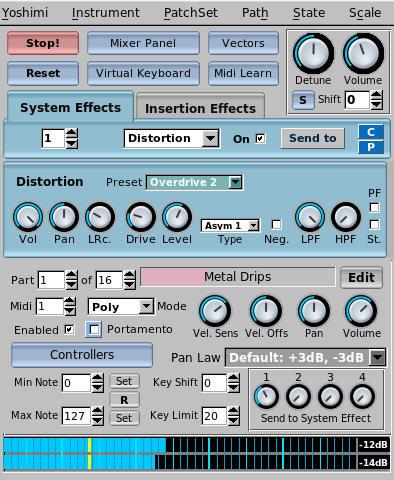
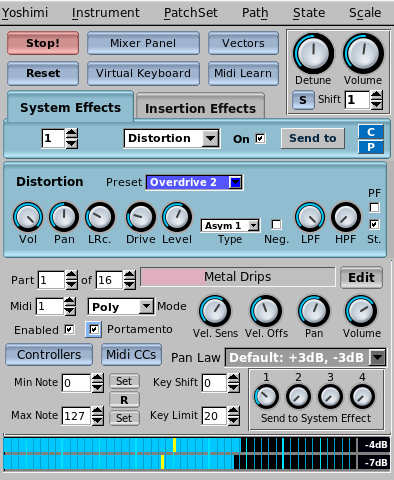
Deploy generated site
Based on source repo commit:
3cb5497ccb44a112591428939be293af15839389

diff --git a/docs/user-guide/bank/bank.html b/docs/user-guide/bank/bank.html
@@ -13,11 +13,11 @@
     <p>
     Pre-designed instrument patches are immediately available in <em>banks</em>. These in turn are contained within a bank <em>root</em>. These bank roots are themselves contained in a root <em>path</em>. The entire structure bearing a direct relationship to MIDI Program Change, Bank LSB and Bank MSB controllers. For normal work that gives up to 128 Instruments in 128 banks in 128 Roots. Yoshimi actually has an extra 32 Instruments in each bank which are only accessible to MIDI using a custom extended program change control.
     <br><br>
-    Note that Yoshimi uses MIDI numbers, starting from 1 for program (instrument) changes, and 0 for banks and roots.
+    Note that Yoshimi uses the standard MIDI numbers, starting from 1 for program (instrument) changes, and 0 for banks and roots.
     <br><br>
     As well as instrument files themselves, a bank will have a hidden ID file <em>.bankdir</em>. This serves two purposes. It speeds up bank searches. If this is present there is no need to positively identify at least one instrument. It also contains the version number from the last time it was updated.
     <br><br>
-    We advise against making any changes to the bank structure through any external means (such as a desktop filer) as this is likely to invalidate Yoshimi's records and cause it to perform a complete bank reset. This would almost certainly change all the MIDI numbers, breaking any previous projects.
+    We advise against making any changes to the bank structure through any external means (such as a desktop filer) as it is possible to invalidate Yoshimi's records and cause it to perform a complete bank reset. This in turn could change all the MIDI numbers, breaking any previous projects.
     </p>
     <img src="images/instruments.png" alt="An instrument bank" class="image">
     <a id="bank"></a>
@@ -28,12 +28,12 @@
     The menu is quick to use when changing banks, but doesn't give you the flexibility of using the buttons for bank roots and root paths. In particular, a right hand mouse click on these buttons will close this window while opening the wanted one, and a right-click on the <b>Close</b> button (bottom right) will return you to where you came from.
     </p>
     <p>
-    Below this is a table of all the instruments in the current bank, with coloured backgrounds indicating what engine types are being used. In order, these are AddSynth, SubSynth, PadSynth. Clicking on one of these will load the instrument into the currently selected part, and highlight it in the bank, so you can easily see where it came from. If selected with a right-click it will also close the window.
+    Below this is a table of all the instruments in the current bank, with coloured backgrounds indicating what engine types are being used. In order, these are AddSynth, SubSynth, PadSynth <em>(a reminder is shown at the bottom of the window)</em>. Clicking on one of these will load the instrument into the currently selected part, and highlight it in the bank, so you can easily see where it came from. If selected with a right-click it will also close the window.
     </p>
     <p>
-    The buttons on the bottom row determine what action is the be performed when clicking on an instrument. The square 'LEDs' show which is the currently active one, and by default it will be <b>Select</b>.
+    The buttons on the bottom row determine what action is to be performed when clicking on an instrument. The square 'LEDs' show which is the currently active one, and by default it will be <b>Select</b>.
     <br><br>
-    For these buttons, you make your choice <em>before clicking</em> on an entry, and regardless of whether the action is successful or not, it will always return to 'Select' Also, the next four buttons will only work where you have filesystem write permission, as they all make actual file changes.
+    With these buttons, you set the operation you want to perform <em>before</em> clicking on an entry, and regardless of whether the action is successful or not, it will always return to 'Select' Also, the next four buttons will only work where you have filesystem write permission, as they all make actual file changes.
     <br><br>
     <b>Rename</b> When chosen, clicking on an instrument entry a small editable window will be opened with the existing name. Changing this will change the name here and the actual filename. It will <em>not</em> change the current part.
     <br><br>
@@ -52,7 +52,7 @@
     <br><br>
     The table of banks also behaves in a similar way to the Instruments one.
     <br><br>
-    The first four buttons int the bottom row also operate in the same way. However, when deleting you will be warned that you will also be completely removing the instrument files, and exactly how many there are.
+    The first four buttons on the bottom row also operate in the same way. However, when deleting you will be warned that you will also be completely removing the instrument files, and exactly how many there are.
     <br><br>
     We suggest you avoid Bank 0, as this is the one that many sequencers automatically send from time to time. Yoshimi reports attempts to access non-existent banks, but otherwise does nothing.
     <br><br>

diff --git a/docs/user-guide/main.html b/docs/user-guide/main.html
@@ -29,7 +29,7 @@
     <br><br>
     <b>Reports</b> opens a window showing all the latest commands and/or error messages. This is only available if the messages are directed here within <em>settings</em> and not to the terminal output. Fatal error messages will always go to the terminal.
     <br><br>
-    <b>View Manual</b> Opens this manual in your default browser. If for some reason the manual is missing, it will try to find an older one, which will then probably be opened in a PDF viewer.
+    <b>View Manual</b> Opens this manual in your default browser. If for some reason the manual is missing, it will try to find an older one, which will then probably be opened in a PDF viewer. However, if you don't have a browser at all (or it doesn't identify itself to the computer) Yoshimi will just pop up a window reporting the fact.
     </p>
     <img src="images/boundry.png" alt="divider" class="wideline">
     <p>
@@ -43,7 +43,7 @@
     <br><br>
     <b>Recent Instruments</b> Yoshimi keeps a list of up to 25 recently seen external instruments, and this opens a window you can select them from. The one you selected will then be placed at the top of the list.
     <br><br>
-    <b>Clear</b> Returns the current part to the basic 'Simple Sound', clearing any effects directly associated with this part.
+    <b>Clear</b> Returns the current part to the basic 'Simple Sound', clearing any effects directly associated with this part. It <em>doesn't</em> clear any of the part level settings such as MIDI channel, key range etc.
     <br><br>
     <b>Search</b> Opens the instrument <a href="bank/search.html">Search</a> window for loading an instrument by its type classification from any bank at all.
     </p>
@@ -115,9 +115,9 @@
     <br><br>
     <b>Detune</b> provides a very fine detune of the entire synth so you can match the pitch to any other synth or sound source you might be using.
     <br><br>
-    <b>Volume</b> is the master volume control for the main audio output pair. It doesn't affect any individual part outputs you might have set (if using Jack audio).
+    <b>Volume</b> is the master volume control for the main audio output pair. It doesn't affect any individual part outputs you might have set (if using Jack audio, or LV2).
     <br><br>
-    <b>S</b> This button switches between stereo and mono - when the color changes to red and the letter becomes an 'M'. It only affects the output pair, and is never saved. It switches virtually silently and is very useful for checking how the music would sound on a mono system.
+    <b>S</b> This button switches between stereo and mono (when the color changes to red and the letter becomes an 'M'). It only affects the output pair, and is never saved. It switches virtually silently and is very useful for checking how the music would sound on a mono system.
     <br><br>
     <b>Shift</b> allows you to step the overall key up or down in semitone steps as much as three octaves.
     </P>

diff --git a/docs/user-guide/navigation/navigation.html b/docs/user-guide/navigation/navigation.html
@@ -72,9 +72,9 @@
     <p>
       In the favourites view, the currently selected path is highlighted in blue, and this one can be made the default. It will then be placed at the top of the list. Currently the maximum number of favourites is 20 - although most people only seem to set five or six.
       <br><br>
-      Selecting one of these doesn't actually set the <em>path</em> field as you may be simply wanting to organise the list. Clicking on the <b>Set</b> button will do so and return you to the main filer view.
+      Selecting one of these doesn't actually set the <em>path</em> field as you may be simply wanting to organise the list. Clicking on the <b>Set</b> button will do so and return you to the main filer view. Also, a <em>double</em> click on one of the items will set the path and return you to the main view.
       <br><br>
-      Clicking on the <em>Set</em> button will always set the highlighted entry, so entering the view then immediately doing this is a quick way to set the default.
+      Clicking on the <em>Set</em> button will always set the highlighted entry, so entering the view then immediately doing this is a quick way to set the default. Alternatively a double click on any entry will select <em>and</em> set it, returning you to the normal view.
       <br><br>
     <b>Note</b>
     <br>
@@ -88,7 +88,7 @@
     <img src="images/bank_import.png" alt="Filer Import" class="double">
     <b>Note</b>
     <br>
-    &emsp;Neither 'Path to Bank Root dirs' nor 'Bank to Import' have a name field. This is     because you are directly importing or registering a path containing these elements, not the elements themselves. Therefore the path 'leaf' <em>is</em> the name. However, when <em>exporting</em> a bank, you will want to give it a name.
+    &emsp;Neither 'Path to Bank Root dirs' nor 'Bank to Import' have a name field. This is because you are directly importing or registering a path containing these elements, not the elements themselves. Therefore the path 'leaf' <em>is</em> the name. However, when <em>exporting</em> a bank, you will want to give it a name.
     </p>
     <p>
     <a href="../starting/starting.html">Next</a> (Getting Started)

diff --git a/docs/user-guide/install/install.html b/docs/user-guide/install/install.html
@@ -11,9 +11,10 @@
     <h2 style="text-align: center">Installation</h2>
     <p>
     Most Linux distributions carry an installable image of Yoshimi, but if yours doesn't, or you want the very latest version, then you can fetch the source code from either github or sourceforge, and compile it yourself.
+    Sourceforge is slightly easier to navigate when trying to find the latest released version.  We don't advise new people to use the 'master' version. Although we try to keep this as stable as possible, it <em>is</em> a development branch.
     </p>
     <p>
-    To do this you will need to ensure that you have installed all the packages required beforehand. You can find a list of these packages in the file titled "Dependencies" in the source code. You need the development versions of these packages. You can install these from the terminal using the commands for package installation from your distro, or from a graphical package manager such as the Synaptic Package Manager.
+    First you will need to ensure that you have installed all the packages required beforehand. You can find a list of these packages in the file titled "Dependencies" in the source code. You need the development versions of these packages. You can install these from the terminal using the commands for package installation from your distro, or from a graphical package manager such as the Synaptic Package Manager.
     </p>
     <p>
     Once you have met all the dependencies, follow the instructions in the file titled "INSTALL" in the source code. There is also a file titled "INSTALL_CUSTOM" with information on how to customise your build.

diff --git a/docs/user-guide/yoshimi_cli.html b/docs/user-guide/yoshimi_cli.html
@@ -12,7 +12,7 @@
     <h2 style="text-align: center">Command Line Interface</h2>
     <p>
     Yoshimi supplies a command line interface (CLI) that can perform any action that is available in the graphical interface (GUI). The CLI closely follows the GUi with respect to context levels.
-    However, some control names are changed to enable shorter abbreviations the be used.
+    However, some control names are changed to enable shorter abbreviations to be used.
     <br><br>
     With Yoshimi installed, open a terminal window and type 'yoshimi' to start. Unless you have disabled the GUI it will also show, but the prompt you will see will be something like the following:
     <div class = "code">
@@ -109,7 +109,7 @@ Commands:
   COnfig      ...             - configuration settings
 q=quit /=search PgUp/PgDown=scroll (line 1 of 65)
     </div>
-    Quitting this pager will return you to the prompt. Notice it now shows the current context level.
+    Quitting this pager will return you to the prompt, and it now shows the current context level.
     <div class = "code">
 @ Top
 yoshimi&gt;
@@ -196,6 +196,8 @@ yoshimi&gt;
       <b>DEFault</b> The default value.
       </li>
     </ul>
+    Instead of 'Read' you can use 'Get' but we don't recommend that. When working quickly it's easy for the <em>wrong</em> muscle memory to kick in so you mix up 'Set' and 'Get'.
+    <br><br>
     Here is another sequence of commands:
     <div class = "code">
 @ Top

diff --git a/docs/user-guide/part/part.html b/docs/user-guide/part/part.html
@@ -35,7 +35,9 @@
     <b>Volume</b> This is also directly linked to the mixer control for overall part volume.
     </p>
     <p>
-     Nomally the <b>Controllers</b> button opens the <a href="controllers.html">MIDI Controllers</a> window. However a right click on it will instead open a window for the <a href="controllers.html#midiccs">MIDI CCs</a> window (shown at the foot of the same page).
+     <b>Controllers</b> button opens the <a href="controllers.html">MIDI Controllers</a> window so you can adjust their ranges.
+     <br><br>
+     <b>Midi CCs</b> opens a window for the <a href="controllers.html#midiccs">MIDI CCs</a> window for emulating the 5 commonest controls.
      <br><br>
      The <b>Pan Law</b> menu selects one of three common panning behaviours. The default is close to a constant power output. The first number refers to the apparent level of the side it is panned to, and the other number is the equivalent output when switched to MONO.
      </p>
@@ -168,6 +170,14 @@
     <br><br>
     <b>FX.r.</b> Sets which of the part's three effects will be applied to this item.
     <br><br>
+    <b>Note</b>
+    <br>
+    <div class="tab">
+    Item level Min and Max note ranges are constrained by the overall range set at part level.
+    <br>
+    e.g Part MIn is 60, Item Min is 40, Resultant Min is 60.
+    </div>
+    <br>
     (bottom row)
     <br><br>
     <b>Mode</b> This menu selects the kit mode that is used.

diff --git a/docs/user-guide/part/solo.html b/docs/user-guide/part/solo.html
@@ -19,7 +19,7 @@
     <br><br>
     <b>Column</b> This mode only works if you have at least 32 parts set, and is much more useful if you set 64 parts, as it selects one from each row to receive note-on messages. For incoming channel 1 you would set the control CC value to any one of 1, 17, 33, 49. For incoming channel 7 it would be 7, 23, 39, 55. Each of these are completely independent so you effectively have 16 four part solos.
     <br><br>
-    <b>Loop</b> This is similar to <em>row</em> mode, but in this case a control value greater than zero will cause the next part in sequence to be the receiving one. After 16 it loops round to part 1 again. Zero is ignored.
+    <b>Loop</b> This is similar to <em>row</em> mode, but in this case a control value greater than zero will cause the next part in sequence to be the receiving one. After 16 it loops round to part 1 again. Zero is ignored so that a normal MIDI on/off foot pedal can be used.
     <br><br>
     <b>TwoWay</b> This is a variation of <em>loop</em> mode, where a control value of less than 64 but greater than zero will step backwards, and from part 1 looping round to 16. Again, zero is ignored.
     <br><br>

diff --git a/history.html b/history.html
@@ -183,6 +183,14 @@
     There were also more improvements to the UI, notably the file manager. A large portion of the development
     cycle was dedicated to the creation of a <a href="docs/user-guide">revised and improved user guide</a>, available in lightweight HTML.
   </p>
+  <p>
+    In October of 2021, the patch release 2.1.1 brought substantial improvements to the performance and functionality of the instrument banks -
+    improving load times and disambiguation of bank/instrument names from merges. It also included a new dedicated button for opening the MIDI CC
+    controls window. These controls were often overlooked, as they were previously only accessible by right-clicking the Controllers button.
+    After general agreement, triggering a program change for a part will now always enable that part - controls that disabled that behaviour were
+    removed (the behaviour can still be achieved via NRPN, if desired).
+    Other changes included easier navigation to favourites in the file browser, and fixing an issue where the user guide did not open instantly.
+  </p>
   <p>And the story continues...</p>
 
 </div>

diff --git a/docs/user-guide/starting/starting.html b/docs/user-guide/starting/starting.html
@@ -29,10 +29,10 @@
     <img src="../images/boundry.png" alt="divider" class="wideline">
     <img src="images/virtual.png" alt="Keyboard layout" class="image">
     <p>
-     Provided this window has focus, key presses will also produce sound. The layout is shown here for the standard QWERTY keyboard.
+     Provided the virtual keyboard window has focus, key presses will also produce sound. The layout is shown here for the standard QWERTY keyboard.
     </p>
     <p>
-    You can operate the various controls with a mouse at the same time as playing on a keyboard. Some for the controls are real-time i.e. take immediate effect, while others only take effect on the next note played.
+    You can operate the various controls with a mouse at the same time as playing on a keyboard. Some of the controls are real-time i.e. take immediate effect, while others only take effect on the next note played.
     </p>
     <p>
     To the left of the keys, there is a slider for pitch bend. Unlike a real bend control this doesn't spring back when you release it, however, right-clicking the control will return it to the centred position.

diff --git a/docs/user-guide/config/config.html b/docs/user-guide/config/config.html
@@ -105,11 +105,11 @@
     <br><br>
     <b>Enable Program Change</b> Determines whether you want to allow Program/Instrument changes via MIDI from <a href="../bank/bank.html">banks</a>.
     <br><br>
-    <b>Enable Part On Program Change</b> Having this set will activate a part if it is not active when it receives a program change message.
-    <br><br>
     <b>Enable Extended Program Change</b> This lets you set a specific CC that will then perform program changes on the upper 32 instruments in a bank.
     <br><br>
-    <b>Extended Program Change CC</b> The is the actual CC to use for extended program changes. The value sent should be the slot number of the wanted Instrument minus 128.
+    <b>Extended Program Change CC</b> This is the actual CC to use for extended program changes. The value sent should be the slot number of the wanted Instrument minus 128.
+    <br>
+    <b>e.g.</b> For loading the instrument at slot 130 you would send 2.
     <br><br>
     <b>Enable Incoming NRPNs</b> Enables/Disables receiving NRPNs, but doesn't affect Vectors or MIDI Learn which are always available.
     <br><br>

diff --git a/downloads.html b/downloads.html
@@ -76,10 +76,10 @@ Here are links to source archives that you can compile on your machine.
   <tbody>
   <tr>
     <td>
-      <a href="https://github.com/Yoshimi/yoshimi/archive/2.1.0.zip">2.1.0</a>
+      <a href="https://github.com/Yoshimi/yoshimi/archive/2.1.1.zip">2.1.1</a>
     </td>
     <td>
-      <a href="https://github.com/Yoshimi/yoshimi/archive/2.1.0.tar.gz">2.1.0</a>
+      <a href="https://github.com/Yoshimi/yoshimi/archive/2.1.1.tar.gz">2.1.1</a>
     </td>
   </tr>
   </tbody>
@@ -99,6 +99,14 @@ Here are links to source archives that you can compile on your machine.
     </tr>
   </thead>
   <tbody>
+  <tr>
+    <td>
+      <a href="https://github.com/Yoshimi/yoshimi/archive/2.1.0.zip">2.1.0</a>
+    </td>
+    <td>
+      <a href="https://github.com/Yoshimi/yoshimi/archive/2.1.0.tar.gz">2.1.0</a>
+    </td>
+  </tr>
     <tr>
       <td>
 	<a href="https://github.com/Yoshimi/yoshimi/archive/2.0.zip">2.0</a>

diff --git a/docs/user-guide/index.html b/docs/user-guide/index.html
@@ -13,7 +13,7 @@ set the correct version number. -->
   </head>
   <body>
   <!-- The next line must not be changed. It is edited at build time -->
-    <h1 style="text-align: center;">The Yoshimi User Guide V2.1.0</h1>
+    <h1 style="text-align: center;">The Yoshimi User Guide V2.1.1</h1>
     <img src="images/Main.png" alt="Contents Window" class="image">
     <p>
     This image is the first, and main Yoshimi window. You may want to keep this view visible while reading the guide.
@@ -42,6 +42,8 @@ set the correct version number. -->
     <a href="part/part.html">Parts and Channels</a>
     <div class="tab">
     <a href="part/controllers.html">MIDI Controllers</a>
+    <br>
+    <a href="part/controllers.html#midiccs">MIDI CCs</a>
     <br>
     <a href="part/part.html#aftertouch">Aftertouch</a>
     <br>
